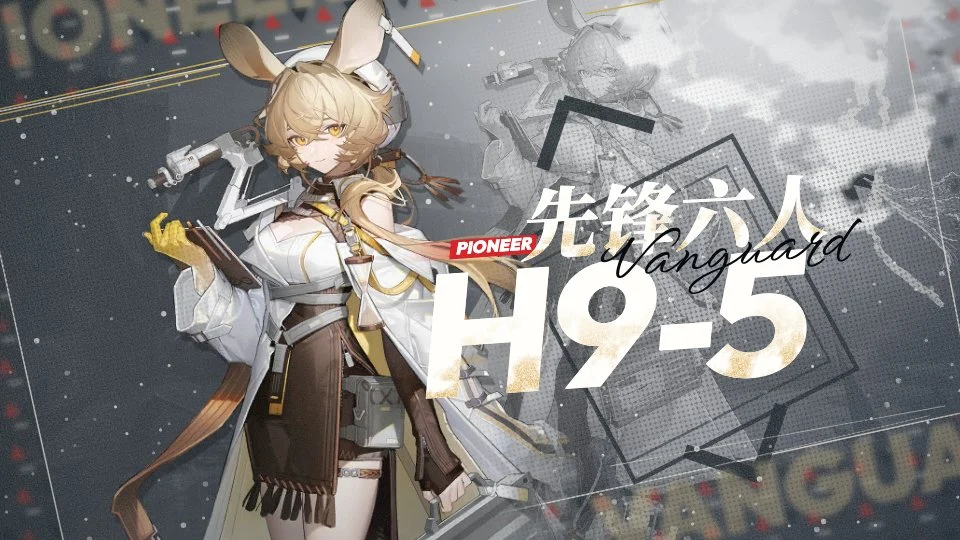
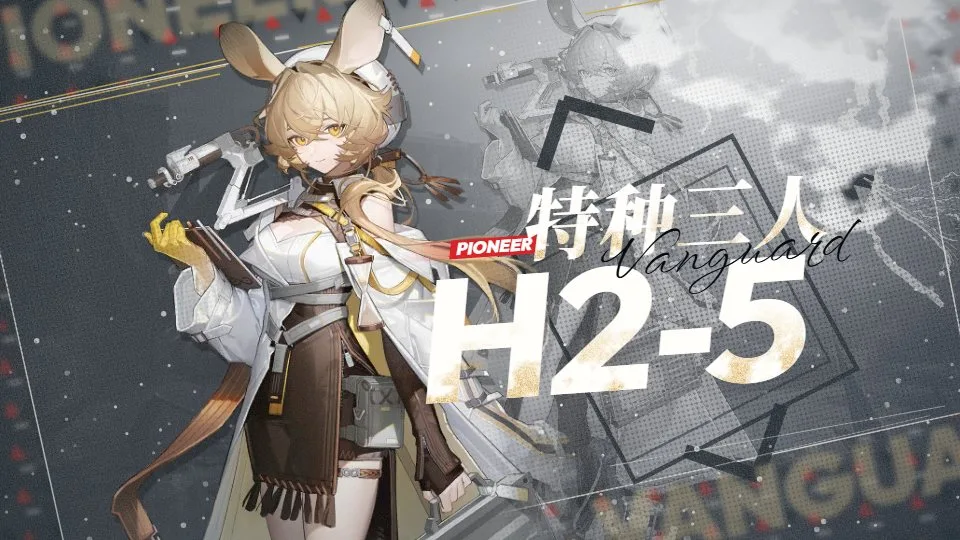
feat(template): 更新特种三人默认稿和首页简介
WHAT: 把特种三人默认文案换成 H2-5，并改首页几张卡片的名称和简介
WHY: 默认稿要跟已导出的封面配置一致，首页简介要标出仿照的攻略组
HOW: 模板 id 保持不变；旧的 H9-5 / 先锋六人草稿迁到新文案，自定义文案保留；首页缩略图按新默认稿重导

diff --git a/src/templates/SixVanguard.browser.test.tsx b/src/templates/SixVanguard.browser.test.tsx
@@ -43,7 +43,7 @@ function separated(a: ReturnType<typeof textCorners>, b: ReturnType<typeof textC
 }
 
 test.each([
-  ["H9-5", "先锋六人", "Vanguard"],
+  ["H2-5", "特种三人", "Vanguard"],
   ["H12-4突袭", "先锋六人无支援", "Vanguard Operations"],
   ["1-7", "双人", "Duo"],
 ])("关卡 %s 与阵容 %s 在安全区内保持主次字级", async (title, subtitle, signature) => {
@@ -67,7 +67,7 @@ test.each([
   const imageSlot = screen.container.querySelector('[data-operator-slot]')!;
   const stageLayer = screen.container.querySelector('[data-cover-el="stage"]')!;
   expect(Number(getComputedStyle(imageSlot).zIndex)).toBeLessThan(Number(getComputedStyle(stageLayer).zIndex));
-  const operator = screen.container.querySelector('[data-cover-el="operator"]') as HTMLElement;
+  const operator = screen.container.querySelector('[data-cover-el="operator"] [data-art-pan]') as HTMLElement;
   expect(operator.getBoundingClientRect().left).toBeCloseTo(canvas.left - 215.5387931034468, 0);
 });
 
@@ -142,10 +142,23 @@ test("旧默认忍冬稿换成多萝西精零并重排", () => {
   expect(loaded.layers.find(l => l.id === "operator" && l.kind === "image")).toMatchObject({ imageX: -215.5387931034468, scale: 177, artId: "char_4048_doroth_1" });
 });
 
+test("旧默认文案换成 H2-5 与特种三人，自定义文案保留", () => {
+  const draft = emptyDraft("six-vanguard");
+  saveDraft("six-vanguard", { ...draft, title: "H9-5", subtitle: "先锋六人" });
+  const loaded = loadDraft("six-vanguard");
+  expect(loaded.title).toBe("H2-5");
+  expect(loaded.subtitle).toBe("特种三人");
+
+  saveDraft("six-vanguard", { ...emptyDraft("six-vanguard"), title: "H10-3", subtitle: "先锋四人" });
+  const kept = loadDraft("six-vanguard");
+  expect(kept.title).toBe("H10-3");
+  expect(kept.subtitle).toBe("先锋四人");
+});
+
 test("新建稿使用多萝西精英零且原生图层完整接入", () => {
   const draft = emptyDraft("six-vanguard");
-  expect(draft.title).toBe("H9-5");
-  expect(draft.subtitle).toBe("先锋六人");
+  expect(draft.title).toBe("H2-5");
+  expect(draft.subtitle).toBe("特种三人");
   expect(draft.operatorName).toBe("多萝西");
   expect(draft.operatorId).toBe("char_4048_doroth");
   expect(draft.artId).toBe("char_4048_doroth_1");

diff --git a/src/components/HomePage.browser.test.tsx b/src/components/HomePage.browser.test.tsx
@@ -6,10 +6,10 @@ beforeEach(() => {
   localStorage.clear();
 });
 
-test("首页列出先锋六人模板并能打开", async () => {
+test("首页列出特种三人模板并能打开", async () => {
   let opened = "";
   const screen = await render(<HomePage onOpen={(id) => { opened = id; }} />);
-  await screen.getByRole("button", { name: "先锋六人 灰金网点职业队模板" }).click();
+  await screen.getByRole("button", { name: "特种三人 职业队模板" }).click();
   expect(opened).toBe("six-vanguard");
 });
 
@@ -57,7 +57,7 @@ test("首页列出仅需一人模板并能打开", async () => {
 test("首页列出强度测评模板并能打开", async () => {
   let opened = "";
   const screen = await render(<HomePage onOpen={(id) => { opened = id; }} />);
-  await screen.getByRole("button", { name: "强度测评 单立绘技能测评模板" }).click();
+  await screen.getByRole("button", { name: "强度测评 仿血狼干员测评模板" }).click();
   expect(opened).toBe("strength-review");
 });
 
@@ -70,11 +70,20 @@ test("首页列出 V我50 模板并能打开", async () => {
   expect(opened).toBe("highspec-nocore");
 });
 
+test("首页列出肉鸽模板并能打开", async () => {
+  let opened = "";
+  const screen = await render(<HomePage onOpen={(id) => { opened = id; }} />);
+
+  await expect.element(screen.getByRole("button", { name: "肉鸽模板 仿鸡组肉鸽模板" })).toBeVisible();
+  await screen.getByText("肉鸽模板", { exact: true }).click();
+  expect(opened).toBe("rogue");
+});
+
 test("首页列出紧急授课模板并能打开", async () => {
   let opened = "";
   const screen = await render(<HomePage onOpen={(id) => { opened = id; }} />);
 
-  await expect.element(screen.getByRole("button", { name: "紧急授课 五人无藏肉鸽模板" })).toBeVisible();
+  await expect.element(screen.getByRole("button", { name: "紧急授课 仿黑蓑肉鸽模板" })).toBeVisible();
   await screen.getByText("紧急授课", { exact: true }).click();
   expect(opened).toBe("emergency-lesson");
 });

diff --git a/src/data/templates.ts b/src/data/templates.ts
@@ -61,13 +61,13 @@ export const TEMPLATES: TemplateMeta[] = [
   },
   {
     id: "six-vanguard",
-    name: "先锋六人",
-    blurb: "灰金网点职业队模板",
-    sampleTitle: "H9-5",
-    defaultSubtitle: "先锋六人",
+    name: "特种三人",
+    blurb: "职业队模板",
+    sampleTitle: "H2-5",
+    defaultSubtitle: "特种三人",
     titleKind: "stage",
     titleLabel: "关卡码",
-    titlePlaceholder: "H9-5",
+    titlePlaceholder: "H2-5",
     subtitleLabel: "阵容标题",
     showEpisode: false,
     signatureLabel: "英文花体",
@@ -90,7 +90,7 @@ export const TEMPLATES: TemplateMeta[] = [
   {
     id: "strength-review",
     name: "强度测评",
-    blurb: "单立绘技能测评模板",
+    blurb: "仿血狼干员测评模板",
     sampleTitle: "丰川祥子",
     defaultSubtitle: "强度测评",
     titleKind: "operator",
@@ -160,7 +160,7 @@ export const TEMPLATES: TemplateMeta[] = [
   {
     id: "rogue",
     name: "肉鸽模板",
-    blurb: "肉鸽少人模板",
+    blurb: "仿鸡组肉鸽模板",
     defaultSubtitle: "四人无藏",
     showEpisode: true,
     sampleTitle: "命运共享",
@@ -190,7 +190,7 @@ export const TEMPLATES: TemplateMeta[] = [
   {
     id: "emergency-lesson",
     name: "紧急授课",
-    blurb: "五人无藏肉鸽模板",
+    blurb: "仿黑蓑肉鸽模板",
     defaultSubtitle: "无藏",
     showEpisode: true,
     sampleTitle: "带船紧急授课",

diff --git a/src/lib/storage.ts b/src/lib/storage.ts
@@ -704,6 +704,9 @@ function migrateSixVanguardLayout(draft: Draft): Draft {
     elementStyles,
     layers: draft.layers.filter((layer) => layer.id !== "count-mark"),
   };
+  if (draft.title === "H9-5" && draft.subtitle === "先锋六人") {
+    draft = { ...draft, title: "H2-5", subtitle: "特种三人" };
+  }
   const oldArt = draft.artId === "char_4026_vulpis_1" || draft.operatorId === "char_4026_vulpis";
   const oldGuessedDorothy =
     draft.artId === "char_4048_doroth_1" &&

diff --git a/references/six-vanguard/INDEX.md b/references/six-vanguard/INDEX.md
@@ -10,9 +10,9 @@
 
 ## 模板实现
 
-- 模板 id：`six-vanguard`，名称「先锋六人」，实现：`src/templates/SixVanguard.tsx`。
+- 模板 id：`six-vanguard`，名称「特种三人」，实现：`src/templates/SixVanguard.tsx`。
 - 单图构图依据：左侧多萝西精零近景、右侧阵容标题、下方超大斜体关卡码，灰黑人物叠影与网点纸纹，红色职业条和少量金色斜线。
-- 默认文案：「先锋六人」「H9-5」「Vanguard」「PIONEER」；均可编辑。默认立绘：多萝西精英 0（`char_4048_doroth_1`）；背景：维多利亚街昼废墟，默认灰度调色，素材均走现有 CDN。
+- 默认文案：「特种三人」「H2-5」「Vanguard」「PIONEER」；均可编辑。默认立绘：多萝西精英 0（`char_4048_doroth_1`）；背景：维多利亚街昼废墟，默认灰度调色，素材均走现有 CDN。
 - 不复用参考图的职业图标、边缘品牌字样或整图。斜框、网点、纸纹和白点由 DOM/SVG 重建；文字上的金色集中在底部。
 - 红标色块可改色和拖动；叠影、斜框、网点和白点可单独隐藏。叠影随主立绘更换。
 - 默认稿与实际编辑器均用 Playwright Chromium 检查；实际 1920×1080 PNG 经 `html-to-image` 导出，缩略图由此 PNG 缩至 960×540 WebP。

diff --git a/README.md b/README.md
@@ -75,7 +75,7 @@ npm run dev
 | `operator-preview` | 干员前瞻分析 | 冷蓝战术底：左立绘，右「干员 + 前瞻分析 + 期数」，白色宋体主标题和蓝色解析条。 |
 | `fourstar-nocore` | 四星无核 | 暗底拼贴：左斜抬黑体主标题 + 米色关卡条，右立绘，身后几何金框。 |
 | `solo` | 仅需一人 | 暗红氛围：左上关卡码 + 宋体「××单人」+ 白线英文标，右半身立绘。 |
-| `six-vanguard` | 先锋六人 | 左侧多萝西近景，右侧阵容标题与超大斜体关卡码；灰金网点、人物叠影和红色职业条。 |
+| `six-vanguard` | 特种三人 | 左侧多萝西近景，右侧阵容标题与超大斜体关卡码；灰金网点、人物叠影和红色职业条。 |
 | `strength-review` | 强度测评 | 左主立绘（默认皮肤近景）、中间叠精0基建小人、右侧三技能金框、底部两行叠金标题；换干员时小人跟着走，也可在小人库另选或上传。 |
 | `tactical-matrix` | 全息作战矩阵 | 左侧人物近景、右侧战术圆环与超大窄体关卡码；主题色用调色盘自选，人数、上下栏目和独立纹理图层可编辑。 |
 | `highspec-nocore` | V我50 | 浅底：左上宋体活动名，通栏黑箭头关卡码，棕色块短词加大字，右侧立绘。 |
